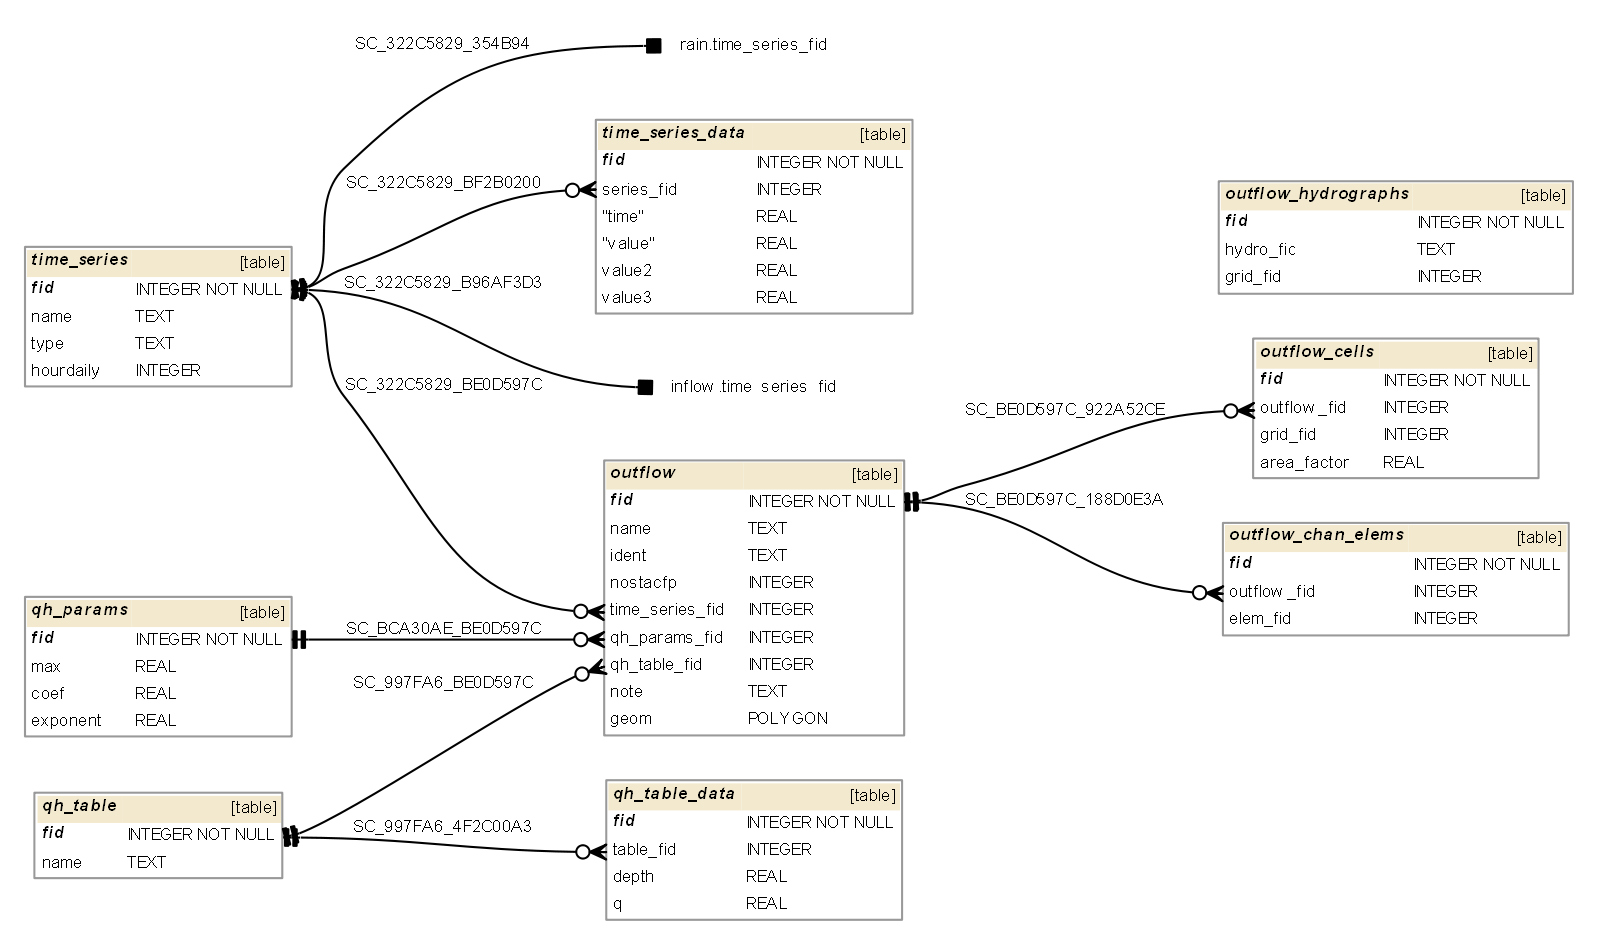
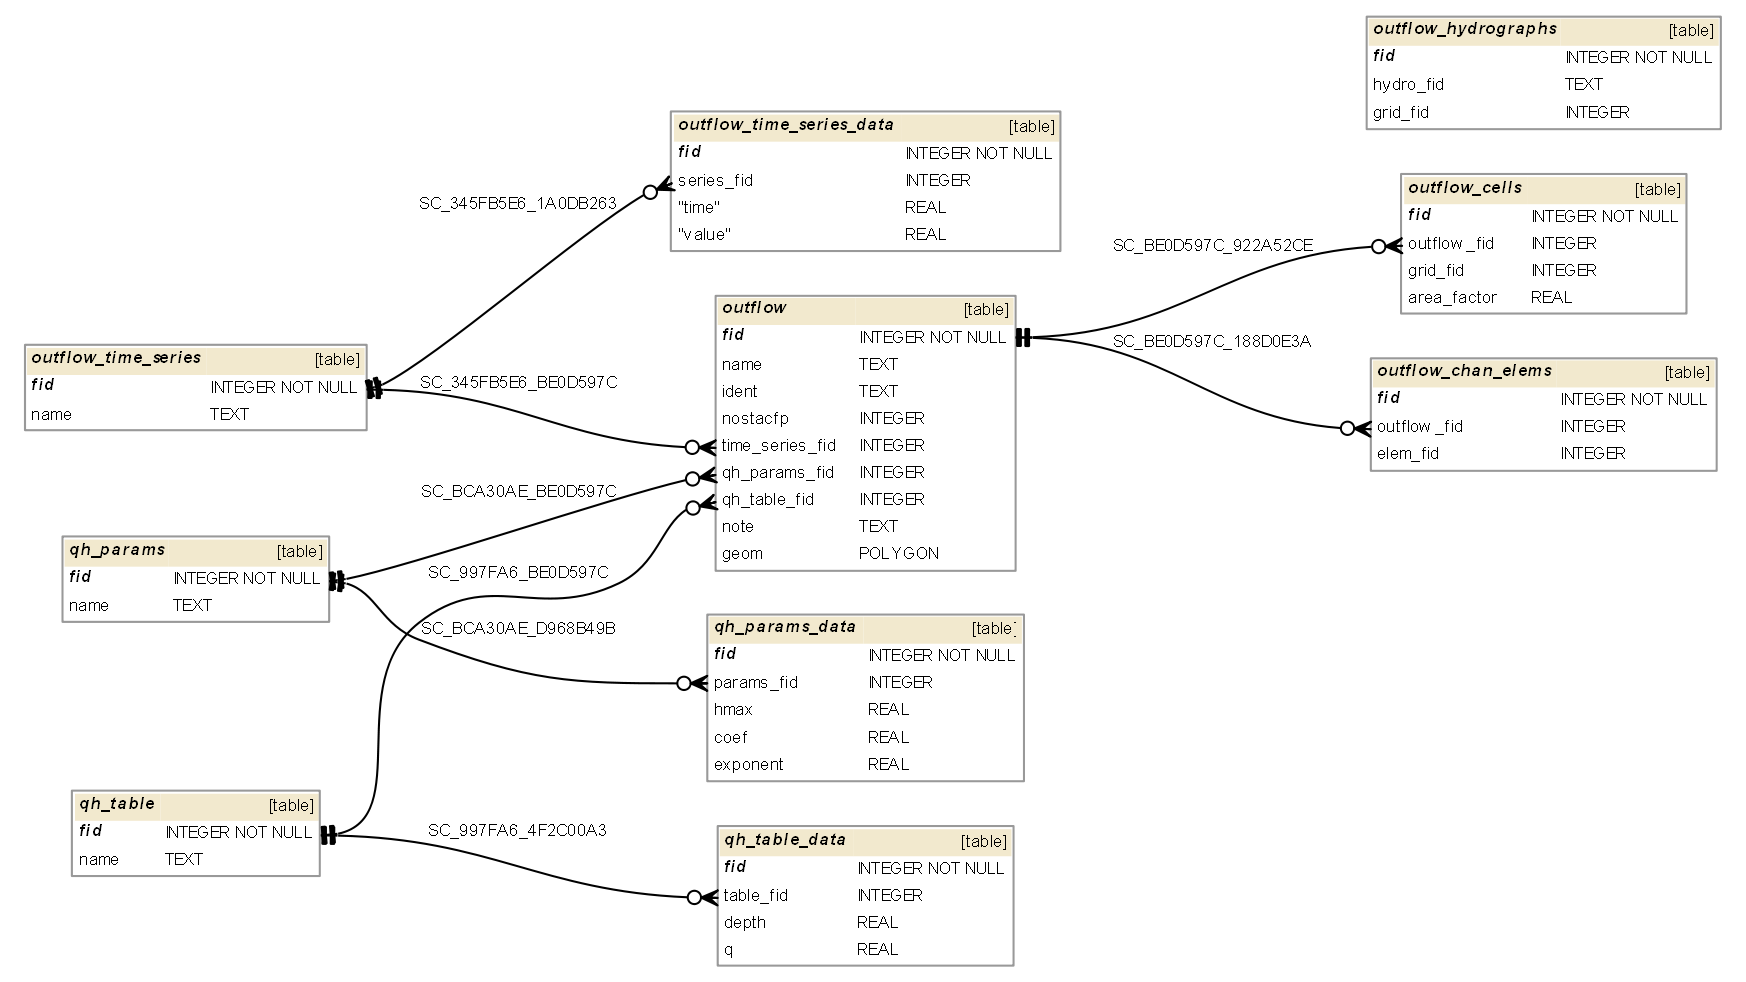
changed db structure for qh_params data (outflows) and its documentation, added own identify menu, added xsections highlighting

diff --git a/flo2d/info_tool.py b/flo2d/info_tool.py
@@ -23,7 +23,7 @@
 from PyQt4.QtCore import *
 from PyQt4.QtGui import *
 from qgis.core import *
-from qgis.gui import QgsMapToolIdentify
+from qgis.gui import QgsMapToolIdentify, QgsRubberBand
 from collections import OrderedDict
 import functools
 
@@ -32,12 +32,14 @@ class InfoTool(QgsMapToolIdentify):
 
     feature_picked = pyqtSignal(str, int)
 
-    def __init__(self, canvas):
+    def __init__(self, canvas, lyrs):
         self.canvas = canvas
+        self.lyrs = lyrs
+        self.rb = None
         QgsMapToolIdentify.__init__(self, self.canvas)
 
     def canvasPressEvent(self, e):
-        pass
+        self.clear_rubber()
 
 #    def canvasReleaseEvent(self, e):
 #        try:
@@ -54,40 +56,70 @@ class InfoTool(QgsMapToolIdentify):
 
     def canvasReleaseEvent(self, e):
         pt = self.toMapCoordinates(e.pos())
-        print pt.x(), pt.y()
-        res = self.identify(e.x(), e.y(), QgsMapToolIdentify.TopDownAll)
-        print "Found: {}".format(len(res))
-        popup = QMenu()
-#        popup.focusOutEvent().connect(self.clear_rubber)
-        actions = {}
+        ll = self.lyrs.list_group_vlayers(self.lyrs.group)
+        res = self.identify(e.x(), e.y(), ll, QgsMapToolIdentify.TopDownAll)
+#        print "Found: {}".format(len(res))
         lyrs_found = OrderedDict()
         for i, item in enumerate(res):
             lyr_name = item.mLayer.name()
-            if not lyr_name in lyrs_found:
-                lyrs_found.append(lyr_name)
             lyr_id = item.mLayer.id()
             table = item.mLayer.dataProvider().dataSourceUri().split('=')[-1]
             fid = item.mFeature.id()
-            a_text = "{} {}".format(lyr_name, fid)
-            print a_text
-            actions[i] = QAction(a_text, None)
-            actions[i].hovered.connect(functools.partial(self.show_rubber, lyr_id, fid))
-            actions[i].triggered.connect(functools.partial(self.pass_res, table, fid))
-            popup.addAction(actions[i])
-        popup.exec_(self.canvas.mapToGlobal(QPoint(e.pos().x()+30, e.pos().y()-30)))
+            if not lyr_name in lyrs_found.keys():
+                lyrs_found[lyr_name] = {'lid': lyr_id, 'table': table, 'fids': []}
+            else:
+                pass
+            lyrs_found[lyr_name]['fids'].append(fid)
+        popup = QMenu()
+        sm = {}
+        actions = {}
+        for i, ln in enumerate(lyrs_found.keys()):
+            lid = lyrs_found[ln]['lid']
+            tab = lyrs_found[ln]['table']
+            sm[i] = QMenu(ln)
+            actions[i] = {}
+            if len(lyrs_found[ln]['fids']) == 1:
+                fid =  lyrs_found[ln]['fids'][0]
+                a_text = "{} ({})".format(ln, fid)
+                actions[i][0] = QAction(a_text, None)
+                actions[i][0].hovered.connect(functools.partial(self.show_rubber, lid, fid))
+                actions[i][0].triggered.connect(functools.partial(self.pass_res, tab, fid))
+                popup.addAction(actions[i][0])
+            else:
+                for j, fid in enumerate(lyrs_found[ln]['fids']):
+                    actions[i][j] = QAction(str(fid), None)
+                    actions[i][j].hovered.connect(functools.partial(self.show_rubber, lid, fid))
+                    actions[i][j].triggered.connect(functools.partial(self.pass_res, tab, fid))
+                    sm[i].addAction(actions[i][j])
+                popup.addMenu(sm[i])
+        popup.exec_(self.canvas.mapToGlobal(QPoint(e.pos().x()+30, e.pos().y()+30)))
 
     def pass_res(self, table, fid):
-        print('Picked: {} {}'.format(table, fid))
         self.feature_picked.emit(table, fid)
+        self.clear_rubber()
 
     def show_rubber(self, lyr_id, fid):
-        pass
+        lyr = self.lyrs.get_layer_tree_item(lyr_id).layer()
+        gt = lyr.geometryType()
+        self.clear_rubber()
+        self.rb = QgsRubberBand(self.canvas, gt)
+        self.rb.setColor(QColor(255, 0, 0))
+        if gt == 2:
+            self.rb.setFillColor(QColor(255, 0, 0, 100))
+        self.rb.setWidth(2)
+        feat = lyr.getFeatures(QgsFeatureRequest(fid)).next()
+        self.rb.setToGeometry(feat.geometry(), lyr)
+
+    def clear_rubber(self):
+        if self.rb:
+            for i in range(3):
+                self.rb.reset(i)
 
 #    def activate(self):
 #        pass
 #
-#    def deactivate(self):
-#        pass
+    def deactivate(self):
+        self.clear_rubber()
 
     def isZoomTool(self):
         return False

diff --git a/flo2d/layers.py b/flo2d/layers.py
@@ -23,6 +23,7 @@
 
 from PyQt4.QtCore import QObject, pyqtSignal
 from PyQt4.QtCore import Qt
+from PyQt4.QtGui import QColor
 import os
 from utils import *
 from collections import OrderedDict
@@ -34,8 +35,10 @@ from qgis.core import (
     QgsFeatureRequest,
     QgsVectorLayer,
     QgsGeometry,
-    QgsLayerTreeLayer
+    QgsLayerTreeLayer,
+    QgsMapLayer
 )
+from qgis.gui import QgsRubberBand
 from qgis.utils import iface
 
 import utils
@@ -47,9 +50,11 @@ class Layers(QObject):
     Class for managing project layers: load, add to layers tree
     '''
 
-    def __init__(self):
+    def __init__(self, iface):
         super(Layers, self).__init__()
+        self.canvas = iface.mapCanvas()
         self.root = QgsProject.instance().layerTreeRoot()
+        self.rb = None
 
 
     def load_layer(self, uri, group, name, subgroup=None, style=None, visible=True, provider='ogr'):
@@ -113,6 +118,15 @@ class Layers(QObject):
                 return layeritem
         else:
             raise Flo2dLayerNotFound('Layer name not specified')
+
+    def list_group_vlayers(self, group):
+        grp = self.get_group(group)
+        l = []
+        for lyr in grp.findLayers():
+            if lyr.layer().type() == QgsMapLayer.VectorLayer and \
+                lyr.layer().geometryType() < 3:
+                l.append(lyr.layer())
+        return l
 
     def new_group(self, name):
         if isinstance(name, (str, unicode)):
@@ -708,3 +722,20 @@ class Layers(QObject):
         for nr in range(sym.symbolLayerCount()):
             exp = 'make_line(translate(centroid($geometry), {}, {}), translate(centroid($geometry), {}, {}))'
             sym.symbolLayer(nr).setGeometryExpression(exp.format(*dir_lines[nr+1]))
+
+    def show_feat_rubber(self, lyr_id, fid):
+        lyr = self.get_layer_tree_item(lyr_id).layer()
+        gt = lyr.geometryType()
+        self.clear_rubber()
+        self.rb = QgsRubberBand(self.canvas, gt)
+        self.rb.setColor(QColor(255, 0, 0))
+        if gt == 2:
+            self.rb.setFillColor(QColor(255, 0, 0, 100))
+        self.rb.setWidth(2)
+        feat = lyr.getFeatures(QgsFeatureRequest(fid)).next()
+        self.rb.setToGeometry(feat.geometry(), lyr)
+
+    def clear_rubber(self):
+        if self.rb:
+            for i in range(3):
+                self.rb.reset(i)

diff --git a/flo2d/gui/dlg_xsec_editor.py b/flo2d/gui/dlg_xsec_editor.py
@@ -34,11 +34,13 @@ uiDialog, qtBaseClass = load_ui('xsec_editor')
 
 class XsecEditorDialog(qtBaseClass, uiDialog):
 
-    def __init__(self, con, iface, xsec_fid=None, parent=None):
-        qtBaseClass.__init__(self)
-        uiDialog.__init__(self, parent)
+    def __init__(self, con, iface, lyrs, xsec_fid=None):
+        qtBaseClass.__init__(self, None, Qt.WindowStaysOnTopHint)
+        uiDialog.__init__(self)
         self.iface = iface
         self.con = con
+        self.lyrs = lyrs
+        self.xsec_lyr_id = self.lyrs.get_layer_by_name('Cross sections', lyrs.group).layer().id()
         self.setupUi(self)
         self.setup_plot()
         self.setModal(False)
@@ -91,6 +93,7 @@ class XsecEditorDialog(qtBaseClass, uiDialog):
         self.xsecList.setModel(model)
         index = self.xsecList.model().index(position, 0, QModelIndex())
         self.xsecList.selectionModel().select(index, self.xsecList.selectionModel().Select)
+        self.xsecList.scrollTo(index)
         self.xsecList.selectionModel().selectionChanged.connect(self.populate_xsec_data)
         self.populate_xsec_data()
 
@@ -99,6 +102,8 @@ class XsecEditorDialog(qtBaseClass, uiDialog):
         dialog and create xsection plot"""
         cur_index = self.xsecList.selectionModel().selectedIndexes()[0]
         cur_xsec = self.xsecList.model().itemFromIndex(cur_index).text()
+        # rubberband
+        self.lyrs.show_feat_rubber(self.xsec_lyr_id, int(cur_xsec))
         xs_types = {'R': 'Rectangular', 'V': 'Variable Area', 'T': 'Trapezoidal', 'N': 'Natural'}
         self.xsecTypeCbo.clear()
         for val in xs_types.values():

diff --git a/flo2d/flo2d.py b/flo2d/flo2d.py
@@ -66,18 +66,18 @@ class Flo2D(object):
             if qVersion() > '4.3.3':
                 QCoreApplication.installTranslator(self.translator)
 
-        self.create_map_tools()
-
         # Declare instance attributes
         self.actions = []
         self.menu = self.tr(u'&Flo2D')
         self.toolbar = self.iface.addToolBar(u'Flo2D')
         self.toolbar.setObjectName(u'Flo2D')
         self.con = None
-        self.lyrs = Layers()
+        self.lyrs = Layers(iface)
         self.gpkg = None
         self.prep_sql = None
         self.set_editors_map()
+
+        self.create_map_tools()
 
         # connections
         self.info_tool.feature_picked.connect(self.get_feature_info)
@@ -466,7 +466,8 @@ class Flo2D(object):
         if not self.gpkg:
             self.uc.bar_warn("Define a database connections first!")
             return
-        self.dlg_xsec_editor = XsecEditorDialog(self.con, self.iface, fid)
+        self.dlg_xsec_editor = XsecEditorDialog(self.con, self.iface, self.lyrs, fid)
+        self.dlg_xsec_editor.rejected.connect(self.lyrs.clear_rubber)
         self.dlg_xsec_editor.show()
 
     def show_inflow_editor(self, fid=None):
@@ -503,7 +504,7 @@ class Flo2D(object):
 
     def create_map_tools(self):
         self.canvas = self.iface.mapCanvas()
-        self.info_tool = InfoTool(self.canvas)
+        self.info_tool = InfoTool(self.canvas, self.lyrs)
 
     def identify(self):
         if not self.gpkg:

diff --git a/docs/dev/source/db_structure/outflow.rst b/docs/dev/source/db_structure/outflow.rst
@@ -23,7 +23,7 @@ OUTFLOW.DAT information goes into the following GeoPackage tables:
 * "fid" INTEGER NOT NULL PRIMARY KEY,
 * "name" TEXT, -- name of outflow
 * "time_series_fid" INTEGER REFERENCES time_series(fid), -- id of time series used for outflow
-* "ident" TEXT, -- OUTCHAR, identifier of inflow element type **K** for channel, **N** for floodplain (Outflow hydrographs **O** for floodplain elements go to separate table outflow_hydrographs)
+* "ident" TEXT, -- OUTCHAR, identifier of inflow element type **K** for channel, **O** for floodplain, **KO** for both, channel and floodplain (Outflow hydrographs **Ox** for floodplain elements go to separate table outflow_hydrographs)
 * "nostacfp" INTEGER, -- NOSTACFP, outflow element type **0** for floodplain, **1** for channel
 * "qh_params_fid" INTEGER, -- if OUTCHAR = **H** take stage-discharge relation parameters from table qh_params
 * "qh_table_fid" INTEGER, -- if OUTCHAR = **T** take stage-discharge relation from qh_table
@@ -42,10 +42,15 @@ OUTFLOW.DAT information goes into the following GeoPackage tables:
 * "outflow_fid" INTEGER NOT NULL REFERENCES outflow(fid), -- outflow id
 * "elem_fid" INTEGER NOT NULL REFERENCES grid(fid) -- KOUT - grid element id affected by an outflow
 
-
-**gpkg table: qh_params** (stage-discharge reletionship parameters)
+**gpkg table: qh_params** (stage-discharge reletionship parameter groups)
 
 * "fid" INTEGER NOT NULL PRIMARY KEY,
+* "name" TEXT
+
+**gpkg table: qh_params_data** (stage-discharge reletionship parameters data)
+
+* "fid" INTEGER NOT NULL PRIMARY KEY,
+* "params_fid" INTEGER, -- parameters group fid from qh_params table
 * "hmax" REAL, -- HOUT(J,1)
 * "coef" REAL, -- HOUT(J,2)
 * "exponent" REAL, -- HOUT(J,3)
@@ -65,7 +70,7 @@ OUTFLOW.DAT information goes into the following GeoPackage tables:
 **gpkg table: outflow_hydrographs** (cells that should produce outflow hydrographs)
 
 * "fid" INTEGER NOT NULL PRIMARY KEY,
-* "hydro_fid" INTEGER NOT NULL, -- OUTCHAR, O-O9 - number of outflow hydrograph to be created
+* "hydro_fid" INTEGER NOT NULL, -- OUTCHAR, Ox (where x = 1-9) - number of outflow hydrograph to be created
 * "grid_fid" INTEGER NOT NULL REFERENCES grid(fid) -- grid element id being a part of an outflow hydro_id
 
 **gpkg table: time_series** (named time series)
